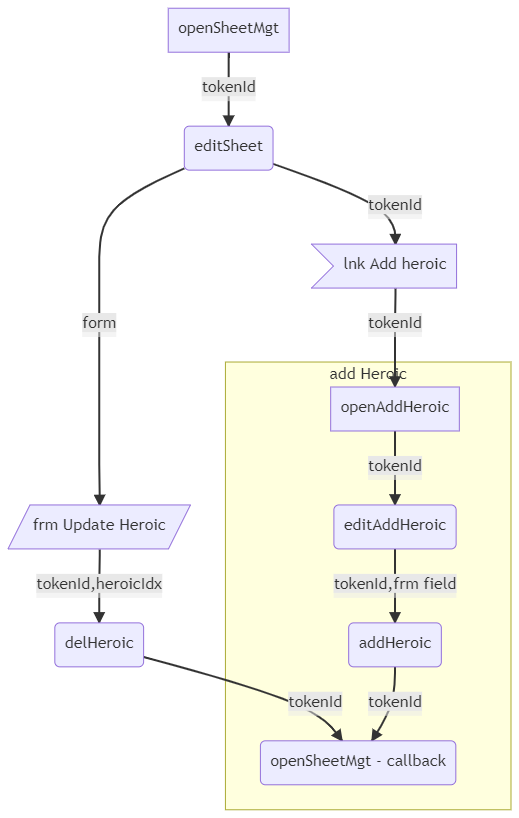
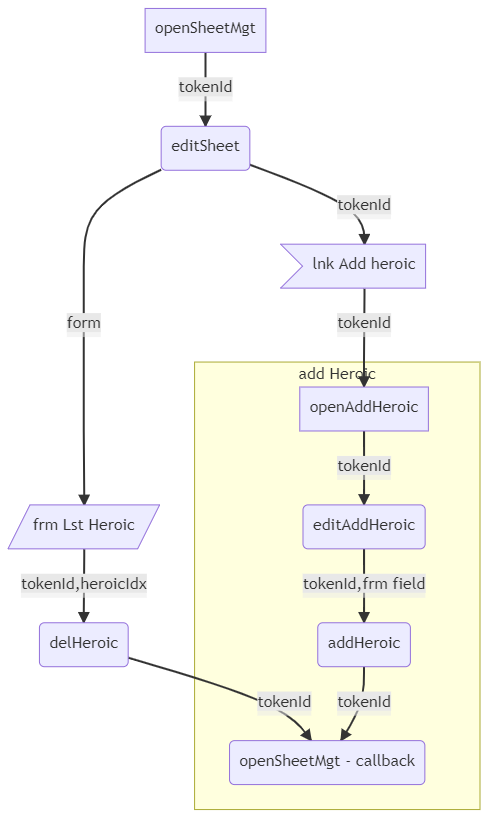
add traits Mgt

diff --git a/dataModel/RQ_Lib.md b/dataModel/RQ_Lib.md
@@ -213,3 +213,50 @@ On the token, heroicID are stored in a JSON array in the propertie *heroicSkills
 ```
 heroicDb = {"arrowCutting":{"displayname":"Arrow Cutting","type":"generic","requirements":"DEX 15 or higher, any close combat style at 90% or higher","heroPoints":10,"duration":"A number of melee rounds equal to CON","lnk":"Rq/HeroicHability#HArrowCutting","desc":"Your reactions are preternatural, allowing you to parry missile attacks with melee weapons instead of being limited to a shield."},"awesomeSmash":{"displayname":"Awesome Smash","type":"generic","requirements":"STR 15 or higher, any unarmed or bludgeon weapon style at 90% or higher","heroPoints":12,"duration":"One melee attack","lnk":"Rq/HeroicHability#HAwesomeSmash","desc":"Invoked whilst wielding a bludgeoning weapon or using Unarmed combat, you cause an automatic knockback of 1 metre per 2 points of rolled damage before it is reduced by parrying, armour or magic.<br>If the victim strikes any obstacle they smash into it, fall prone and automatically receive the attacker’s Damage Bonus to a random location, ignoring any protection."},"autocasting":{"displayname":"Autocasting","type":"magic","requirements":"DEX 16 or higher, any Magic skill at 90% or higher","heroPoints":8,"duration":"","lnk":"Rq/HeroicHability#HAutocasting","desc":"All of your spell casting times are considered to be one Combat Action less than the listed Casting Time, with any existing Casting Time of one actually only taking one Combat Reaction instead. Spells cast as Combat Reactions still occur on your normal Strike Rank instead of a Combat Action."},"blurMovement":{"displayname":"Graceful Blur of Movement","type":"draconic","requirements":"POW 15 or higher, Martial Arts 90% or higher","heroPoints":8,"duration":"","lnk":"Rq/HeroicHability#HGracefulBlurofMovement","desc":"The chance of a Dodge critical success is doubled. In addition, the character never needs to Give Ground unless he decides to do so, representing his unfailing ability to maintain his balance and dodge at close-quarters."},"predatorRoar":{"displayname":"Predator roar","type":"draconic","requirements":"POW 15 or higher, Martial Arts 90% or higher","heroPoints":8,"duration":"","lnk":"Rq/HeroicHability#HPredator2019sRoar","desc":"Each turn that an enemy opposes a roaring dragonspeaker with this Legendary Ability in close combat, the enemy increases their chance to fumble any Weapon skill test by 1%."}}
 ```
+
+#### heroicDb
+
+* name : traits ID -  name (must be unique) i.e excellentSwimmer
+  * displayname : i.e Excellent Swimmer
+  * type : generic or chaotic
+  * d100 : for chaotic traits
+  * lnk : Link to wiki page
+  * desc : info, effects
+
+On the token, heroicID are stored in a JSON array in the propertie *heroicSkills* cf [heroib Skill Mgt](../../libRQII/sheetManagement/README.md)
+
+```
+{
+	"darksense": {
+		"displayname" : "Darksense",
+		"type" : "generic",
+		"d100" : 5,
+		"lnk":"Rq/MonstersTraits#HDarksense",
+		"desc" : "The creature possesses a combination of Dark Sight, olfactory awareness and echolocation to achieve precise underground awareness and orientation.<br>Creatures with this trait function as well underground as humans function above it in broad daylight." 
+	},
+	"excellentSwimmer": {
+		"displayname" : "Excellent Swimmer",
+		"type" : "generic",
+		"d100" : 7,
+		"lnk":"Rq/MonstersTraits#HDarksense",
+		"desc" : "The creature possesses a combination of Dark Sight, olfactory awareness and echolocation to achieve precise underground awareness and orientation.<br>Creatures with this trait function as well underground as humans function above it in broad daylight." 
+	},
+	"absorbing": {
+		"displayname" : "Absorbing",
+		"type" : "chaotic",
+		"d100" : 1,
+		"lnk":"Rq/TraitChaotiques",
+		"desc" : "The creature possesses a combination of Dark Sight, olfactory awareness and echolocation to achieve precise underground awareness and orientation.<br>Creatures with this trait function as well underground as humans function above it in broad daylight." 
+	},
+	"accursed": {
+		"displayname" : "Accursed",
+		"type" : "chaotic",
+		"d100" : 2,
+		"lnk":"Rq/TraitChaotiques",
+		"desc" : "Temporarily weakens the soul of an opponent by 1D8 POW each successful hit." 
+	}
+}
+```
+```
+traitsDb = {"darksense":{"displayname":"Darksense","type":"generic","d100":5,"lnk":"Rq/MonstersTraits#HDarksense","desc":"The creature possesses a combination of Dark Sight, olfactory awareness and echolocation to achieve precise underground awareness and orientation.<br>Creatures with this trait function as well underground as humans function above it in broad daylight."},"excellentSwimmer":{"displayname":"Excellent Swimmer","type":"generic","d100":7,"lnk":"Rq/MonstersTraits#HDarksense","desc":"The creature possesses a combination of Dark Sight, olfactory awareness and echolocation to achieve precise underground awareness and orientation.<br>Creatures with this trait function as well underground as humans function above it in broad daylight."},"absorbing":{"displayname":"Absorbing","type":"chaotic","d100":1,"lnk":"Rq/TraitChaotiques","desc":"The creature possesses a combination of Dark Sight, olfactory awareness and echolocation to achieve precise underground awareness and orientation.<br>Creatures with this trait function as well underground as humans function above it in broad daylight."},"accursed":{"displayname":"Accursed","type":"chaotic","d100":2,"lnk":"Rq/TraitChaotiques","desc":"Temporarily weakens the soul of an opponent by 1D8 POW each successful hit."}}
+```

diff --git a/libRQII/sheetManagement/README.md b/libRQII/sheetManagement/README.md
@@ -1,11 +1,17 @@
 # sheetManagement
-rpTools Macro for RuneQuest
 
-*Purpose* : Viewing and editing human and monster sheet
+Toc
+- [Edit Sheet](#editsheet)
+- [Fatigue Level](#fatigue-level)
+- [Heroic Ability](#heroic-ability)
+- [Traits](#traits)
 
-Compose of two main window
-- viewSheet
+*Purpose* : Editing human / monster sheet
+
+Compose of a main window
 - editSheet
+And sub-module for 
+- Spell, Spirit & Equipement management
 
 ## editSheet
 ```
@@ -68,30 +74,25 @@ Principle :
 
 ### heroic Ability
 
-#### Datamodel
+**Data Model**
 ```
 heroicSkills = ["arrowCutting","awesomeSmash"]
 ```
 
-Invoked whilst wielding a bludgeoning weapon or using Unarmed combat, you cause an automatic knockback of 1 metre per 2 points of rolled damage before it is reduced by parrying, armour or magic.
-If the victim strikes any obstacle they smash into it, fall prone and automatically receive the attacker’s Damage Bonus to a random location, ignoring any protection.
-
-Principle
+**Principle**
 - Heroic abilities are added from a template library : [RQ_Lib/heroicDb](../../dataModel/RQ_Lib.md)
 - A token can have N heroic
-- We only store on the token ability name, other values will be displayed from the template
+- We only store on the token a Json array with the ability name, other values will be displayed from the template
 - So it is managed in the same way as an advanced skill 
 
-Its called from editSheet , for RUD , create is another dialog (same has adv skill) or from openHumCombatAttr (when modified during a combat)
+Its called from editSheet , for RUD , Creation / adding is using another dialog (same has adv skill)
 ```
 Logic - Mermaid Diagram
 graph TB
     A1[openSheetMgt] -->|tokenId| B1(editSheet)
-	B1 -->|form| C1[/frm Update Heroic/]
+	B1 -->|form| C1[/frm Lst Heroic/]
     B1 -->|tokenId| C3>lnk Add heroic]
-	C1 -->|tokenId,frmfields| D1(updateHeroic)
-	D1 -->|tokenId|Z1
-	C1 -->|tokenId,heroicId| D2(delHeroic)
+	C1 -->|tokenId,heroicIdx| D2(delHeroic)
 	D2 -->|tokenId|Z1
     C3 -->|tokenId| D3[openAddHeroic]
     subgraph add Heroic
@@ -103,3 +104,37 @@ graph TB
 ```
 
 ![Heroic Mgt flow](../../assets/doc/heroicMgtFlow.png?raw=true)
+
+### Traits
+
+**Data Model**
+```
+traits = ["darksense","excellentSwimmer"]
+```
+
+**Principle**
+- traits are added from a template library : [RQ_Lib/traitsDb](../../dataModel/RQ_Lib.md)
+- A token can have N traits
+- We only store on the token a Json array with the traits ID (its simplified name), other values will be displayed from the template
+- So it is managed in the same way as an heroic skill 
+
+Its called from editSheet , for RUD , Creation / adding is using another dialog (same has adv skill)
+
+```
+Logic - Mermaid Diagram
+graph TB
+    A1[openSheetMgt] -->|tokenId| B1(editSheet)
+	B1 -->|form| C1[/frm Lst Traits/]
+    B1 -->|tokenId| C3>lnk Add Traits]
+	C1 -->|tokenId,heroicIdx| D2(delTrait)
+	D2 -->|tokenId|Z1
+    C3 -->|tokenId| D3[openAddTraits]
+    subgraph add Traits
+	    D3 --> |tokenId| E3(editAddTraits)
+	    E3 --> |tokenId,frm field|F3(addTraits)
+        F3 -->|tokenId|Z1
+    end
+	Z1(openSheetMgt - callback)
+```
+
+![Traits Mgt flow](../../assets/doc/traitsMgtFlow.png?raw=true)
